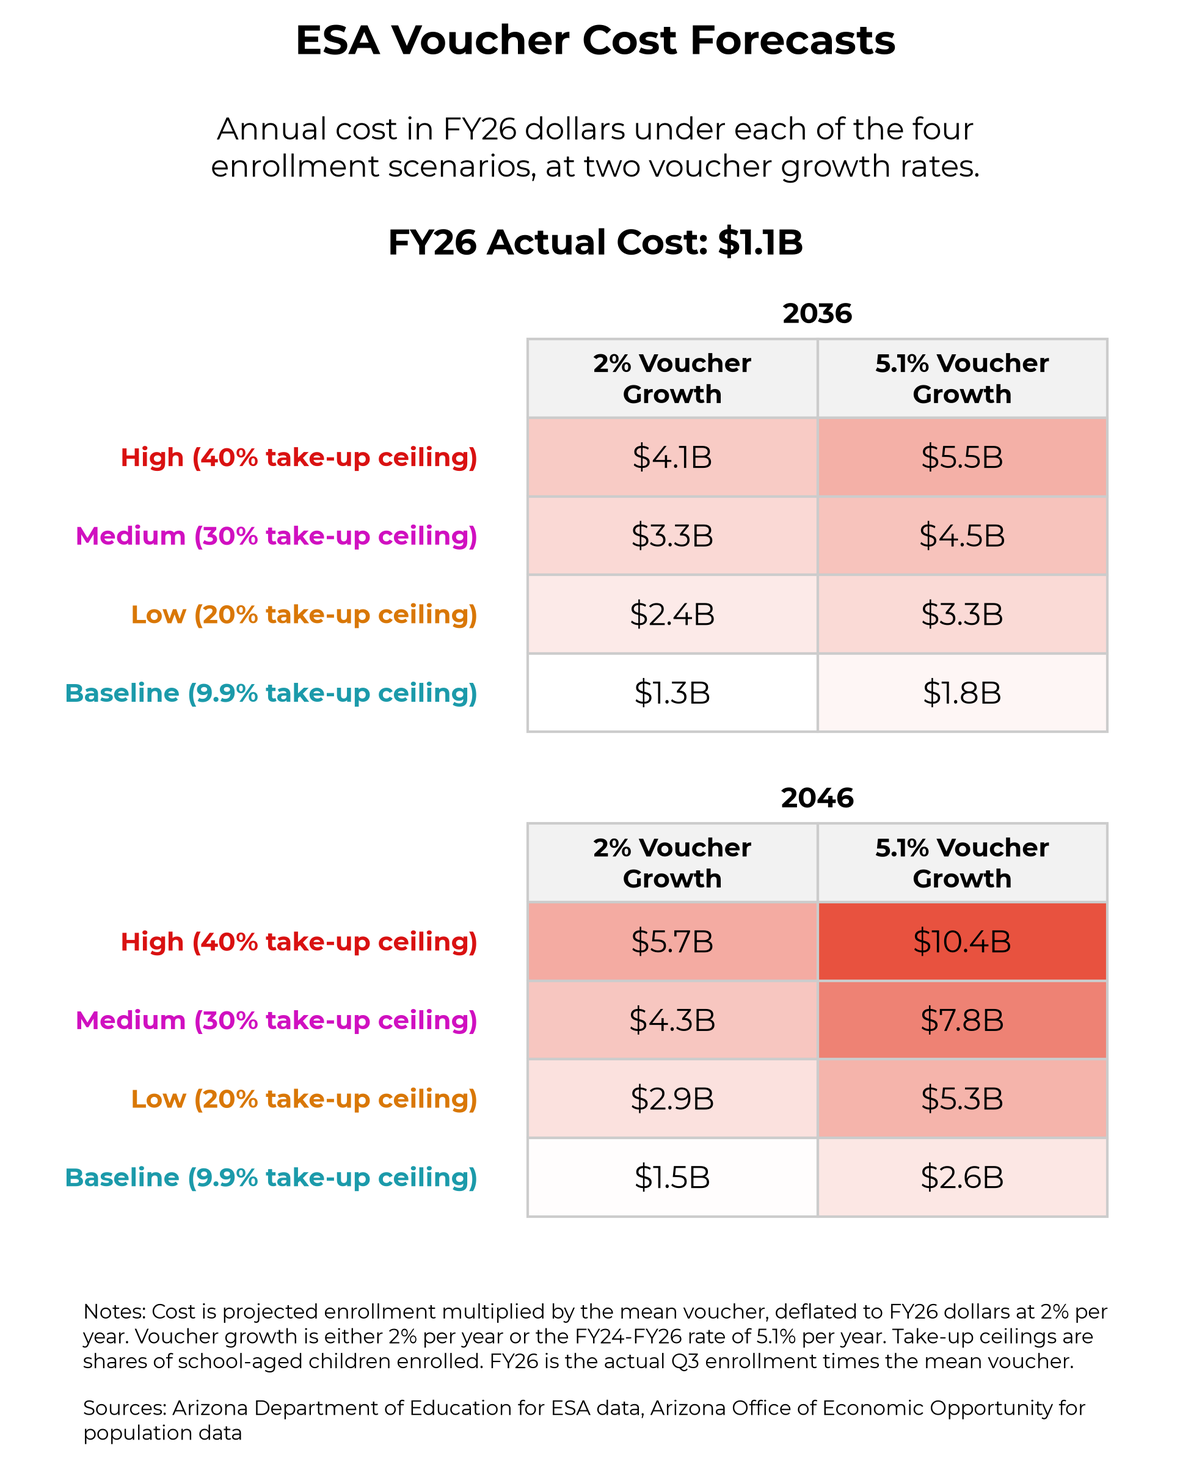
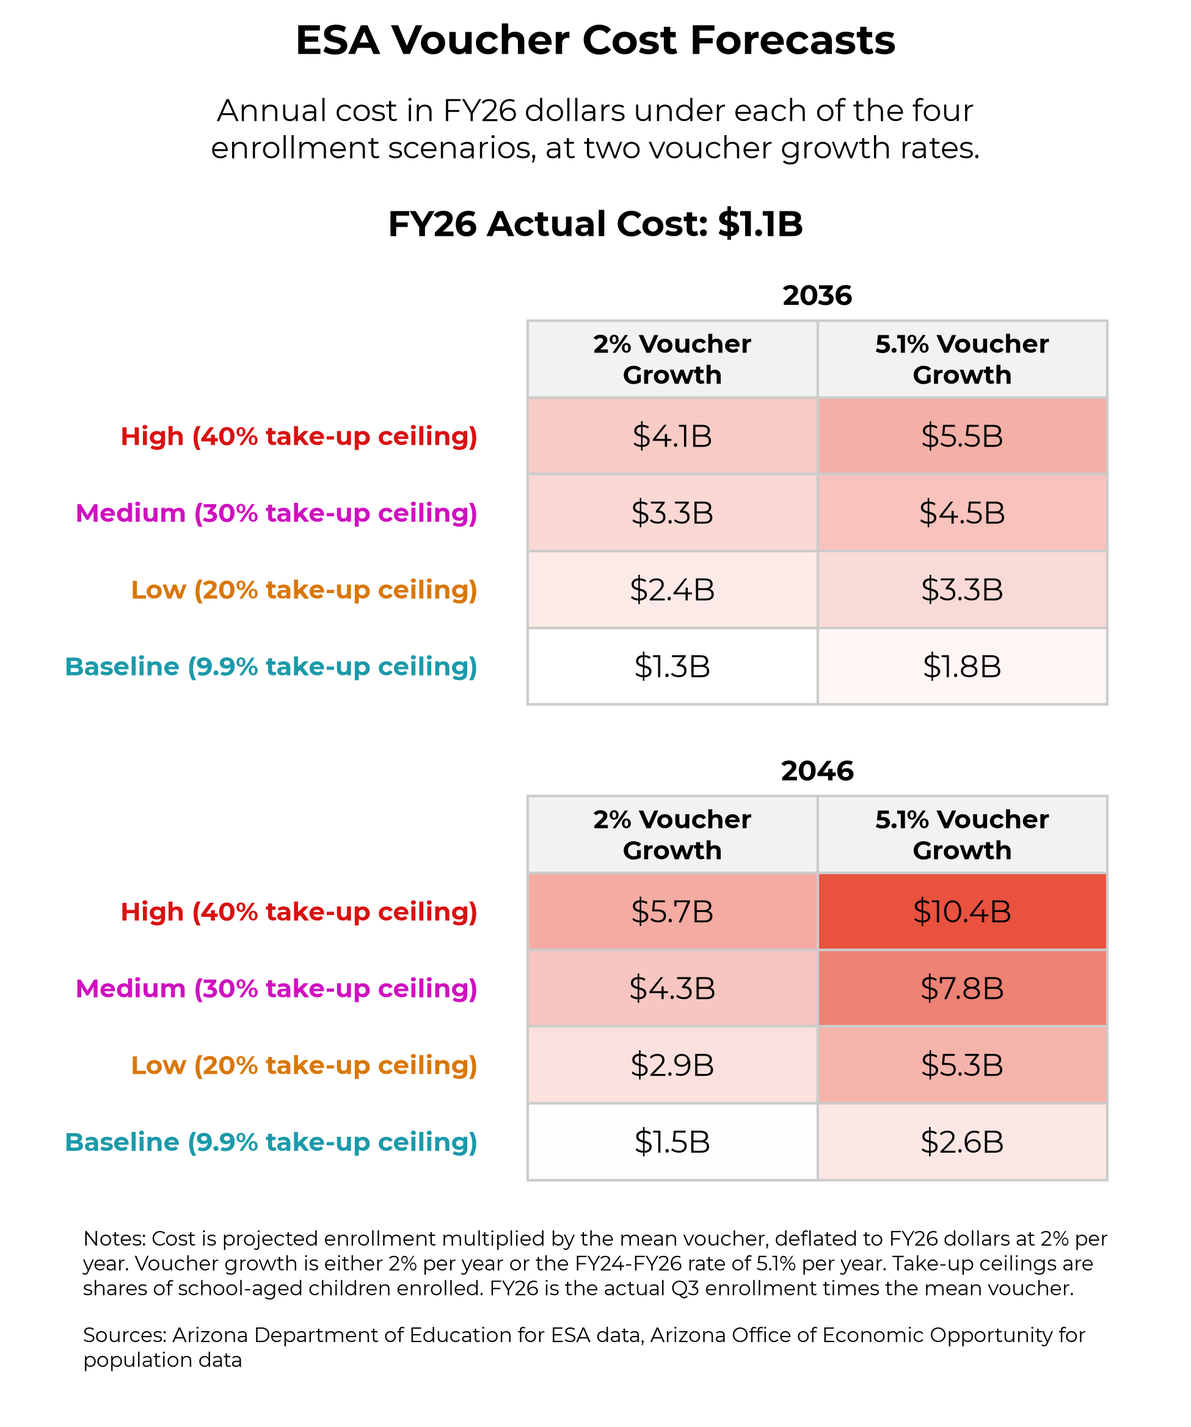
Make full pipeline replicable from raw data
- Add extract_population_real.py (2023-2025 OEO workbooks) with test
- Add run_all.py to rebuild every generated file in order
- Use uv sync --locked in README and CLAUDE.md
- Remove plot_forecast_slide --panels; standalone scripts own the report panels
- Report figures: fixed bottom margin; tighter table-to-notes gap on cost table
- Regenerate az_pop_real_clean.csv and both report panel PNGs (values unchanged)

diff --git a/src/voucher_growth_model/plots_report/plot_forecast_slide.py b/src/voucher_growth_model/plots_report/plot_forecast_slide.py
@@ -1,7 +1,7 @@
 """Enrollment and cost forecast charts side by side on one 16:9 canvas under a single title.
 
 Usage (from the repo root):
-    uv run python -m voucher_growth_model.plots_report.plot_forecast_slide <report_data> <forecast_csv> <out_png> [--table] [--panels]
+    uv run python -m voucher_growth_model.plots_report.plot_forecast_slide <report_data> <forecast_csv> <out_png> [--table]
 """
 
 import sys
@@ -37,18 +37,12 @@ SOURCE = ("Sources: Arizona Department of Education for ESA data, "
 # The cost subtitle has two lines to the enrollment subtitle's three; drop it half a line so their centres match
 SUBTITLE_LINE_HEIGHT = 0.167  # inches at 10 pt
 COST_SUBTITLE_TOP = PANEL["subtitle_top"] + (3 - 2) / 2 * SUBTITLE_LINE_HEIGHT
-PANEL_FILES = ("forecast_enrollment_report.png", "forecast_cost_table.png")  # left, right
-# Standalone report panels only; the slide keeps PANEL_TITLES and its wraps
-REPORT_ENROLLMENT_TITLE, REPORT_COST_TITLE = "ESA Voucher Enrollment Forecasts", "ESA Voucher Cost Forecasts"
-# None keeps SUBTITLE's hand-set breaks (line 2 starts at "after"); three lines that fit the figure width
-REPORT_SUBTITLE_WRAP, REPORT_SUBTITLE_FONTSIZE = None, 11
 COST_TITLE =";\nCost Could Reach \\${lo:,.1f}B to \\${hi:,.1f}B"
 
 
-def plot_forecast_slide(voucher_csv: Path, forecast_csv: Path, out_path: Path, table: bool = False,
-                        panels: bool = False) -> None:
-    """table=True replaces the cost bar chart with a table of FY46 costs. panels=True also saves each panel on its own
-    next to out_path (PANEL_FILES)."""
+def plot_forecast_slide(voucher_csv: Path, forecast_csv: Path, out_path: Path, table: bool = False) -> None:
+    """table=True replaces the cost bar chart with a table of FY46 costs. The standalone report panels come from
+    plot_forecast_enrollment.py and plot_forecast_cost_table.py."""
     cost_panel = plot_forecast_cost_table if table else plot_forecast_cost
     with tempfile.TemporaryDirectory() as tmp:
         left, right = Path(tmp) / "enrollment.png", Path(tmp) / "cost.png"
@@ -61,15 +55,6 @@ def plot_forecast_slide(voucher_csv: Path, forecast_csv: Path, out_path: Path, t
         panel = panel if table else {**PANEL, "subtitle_top": COST_SUBTITLE_TOP}
         cost_panel(forecast_csv, right, axes_y=axes_y, **panel, **{**COST, **right_extra})  # panel level with the line graph
         images = [Image.open(p).convert("RGB") for p in (left, right)]
-    if panels:  # standalone panels for the written report; the cost panel is redrawn centred and with sources
-        plot_forecast_enrollment(voucher_csv, forecast_csv, out_path.parent / PANEL_FILES[0],
-                                 **{**panel, "source_below_notes": True, "center_subtitle": False,
-                                    "subtitle_fontsize": REPORT_SUBTITLE_FONTSIZE},
-                                 **{**ENROLLMENT, **left_extra, "panel_title": REPORT_ENROLLMENT_TITLE,
-                                    "subtitle_wrap": REPORT_SUBTITLE_WRAP})
-        cost_panel(forecast_csv, out_path.parent / PANEL_FILES[1], axes_y=axes_y,
-                   **{**panel, "center_subtitle": False, "show_source": True},
-                   **{**COST, **right_extra, "panel_title": REPORT_COST_TITLE})
     gap = round(TITLE_GAP * SAVE_DPI)
     canvas = Image.new("RGB", (sum(im.width for im in images), max(im.height for im in images) + gap), "white")
     x = 0
@@ -94,5 +79,4 @@ def plot_forecast_slide(voucher_csv: Path, forecast_csv: Path, out_path: Path, t
 
 
 if __name__ == "__main__":
-    plot_forecast_slide(Path(sys.argv[1]), Path(sys.argv[2]), Path(sys.argv[3]), table="--table" in sys.argv[4:],
-                        panels="--panels" in sys.argv[4:])
+    plot_forecast_slide(Path(sys.argv[1]), Path(sys.argv[2]), Path(sys.argv[3]), table="--table" in sys.argv[4:])

diff --git a/src/voucher_growth_model/plots_report/plot_forecast_cost_table.py b/src/voucher_growth_model/plots_report/plot_forecast_cost_table.py
@@ -14,7 +14,7 @@ import pandas as pd
 
 from voucher_growth_model.plots_report.plot_forecast_enrollment import (
     FIG_HEIGHT, NOTES_CLEARANCE, PANEL_TITLE_FONTSIZE, PANEL_TITLE_TOP, SAVE_DPI, SCENARIO_COLORS_5_19, SOURCE,
-    SOURCE_GAP, SUBTITLE_LINE_HEIGHT,
+    SOURCE_GAP, SUBTITLE_LINE_HEIGHT, BOTTOM_MARGIN, bottom_bbox,
 )
 
 YEARS = ["FY36", "FY46"]
@@ -24,6 +24,7 @@ TABLE_X, TABLE_W = 0.32, 0.62
 TABLE_Y = [(0.54, 0.91), (0.07, 0.44)]
 ACTUAL_GAP = 0.2  # inches between the subtitle's last line and the FY26 line
 ACTUAL_TEXT_HEIGHT = 0.25  # inches the 14 pt FY26 line occupies
+TABLE_NOTES_GAP = 0.25  # inches from the lower table to the notes in the report figure (no tick labels to clear)
 TABLES_GAP = 0.1  # inches between the FY26 line and the first year label
 YEAR_LABEL_HEIGHT, YEAR_GAP = 0.3, 0.2  # inches: a year label above its table; between one table and the next label
 ROWS = [("k40", "High (40% take-up ceiling)"), ("k30", "Medium (30% take-up ceiling)"),
@@ -38,7 +39,8 @@ def plot_forecast_cost_table(forecast_csv: Path, out_path: Path, figsize: tuple[
                              subtitle_wrap: int | None = 68, notes_wrap: int = 104,
                              axes_y: tuple[float, float] | None = None, subtitle_top: float = 0.57,
                              center_subtitle: bool = True, panel_title: str | None = None,
-                             subtitle_fontsize: float = 10, show_source: bool = False, **_) -> None:
+                             subtitle_fontsize: float = 10, show_source: bool = False,
+                             bottom_margin: float | None = None, **_) -> None:
     """Keyword arguments follow plot_forecast_cost so the slide can swap the two panels; extras are ignored.
     center_subtitle=False centres the title, subtitle and FY26 line on the figure instead of the axes. show_source adds
     the sources line below the notes."""
@@ -111,7 +113,7 @@ def plot_forecast_cost_table(forecast_csv: Path, out_path: Path, figsize: tuple[
         pos = ax.get_position()
         ax.set_position((pos.x0, axes_y[0], pos.width, axes_y[1] - axes_y[0]))
     pos = ax.get_position()
-    notes_text.set_y(pos.y0 - NOTES_CLEARANCE / height)
+    notes_text.set_y(pos.y0 - (NOTES_CLEARANCE if bottom_margin is None else TABLE_NOTES_GAP) / height)
     if center_subtitle:
         subtitle_text.set_x((pos.x0 + pos.x1) / 2)
         actual_text.set_x((pos.x0 + pos.x1) / 2)
@@ -123,11 +125,12 @@ def plot_forecast_cost_table(forecast_csv: Path, out_path: Path, figsize: tuple[
         fig.text(notes_text.get_position()[0], notes_bottom - SOURCE_GAP / height, textwrap.fill(SOURCE, notes_wrap),
                  ha="left", va="top", fontsize=8)  # wrapped and aligned like the notes
     out_path.parent.mkdir(parents=True, exist_ok=True)
-    fig.savefig(out_path, dpi=SAVE_DPI)
+    fig.savefig(out_path, dpi=SAVE_DPI, bbox_inches=bottom_bbox(fig, bottom_margin))
 
 
 if __name__ == "__main__":
     # Report figure: own title and sources line, taller than the slide panel so the notes fit
     plot_forecast_cost_table(Path(sys.argv[1]), Path(sys.argv[2]), figsize=(6.5, 8.05),
                              panel_title="ESA Voucher Cost Forecasts", subtitle_top=0.5, subtitle_fontsize=12,
-                             subtitle_wrap=50, center_subtitle=False, axes_y=(0.2, 0.8), show_source=True)
+                             subtitle_wrap=50, center_subtitle=False, axes_y=(0.2, 0.8), show_source=True,
+                             bottom_margin=BOTTOM_MARGIN)

diff --git a/src/voucher_growth_model/plots_report/plot_forecast_enrollment.py b/src/voucher_growth_model/plots_report/plot_forecast_enrollment.py
@@ -10,6 +10,7 @@ from pathlib import Path
 
 import matplotlib.pyplot as plt
 from matplotlib import font_manager
+from matplotlib.transforms import Bbox
 from matplotlib.ticker import MultipleLocator
 import pandas as pd
 
@@ -42,6 +43,7 @@ NOTES_CLEARANCE = 0.45  # inches from the plot area's bottom edge to the top of 
 FIG_HEIGHT = 6.85  # inches
 SAVE_DPI = 300
 SOURCE_GAP = 0.12  # inches between the notes and a sources line placed below them
+BOTTOM_MARGIN = 0.3  # inches below the lowest text in the report figures
 PANEL_TITLE_TOP, PANEL_TITLE_FONTSIZE = 0.08, 16  # inches from the top edge; points
 SUBTITLE_LINE_HEIGHT = 0.167  # inches per subtitle line at 10 pt
 LINE_LABEL_Y = 0.42  # axes fraction at which the vertical line labels are centred
@@ -57,7 +59,8 @@ def plot_forecast_enrollment(voucher_csv: Path, forecast_csv: Path, out_path: Pa
                              show_title: bool = True, subtitle_top: float = 0.72,
                              center_subtitle: bool = False, show_source: bool = True,
                              reserve_note_lines: int = 0, panel_title: str | None = None,
-                             subtitle_fontsize: float = 10, source_below_notes: bool = False) -> tuple[float, float]:
+                             subtitle_fontsize: float = 10, source_below_notes: bool = False,
+                             bottom_margin: float | None = None) -> tuple[float, float]:
     """subtitle_wrap re-wraps the subtitle to that many characters per line; None keeps its hand-set line breaks.
 
     show_title=False omits the title; the plot area then starts just below the subtitle, which sits subtitle_top inches
@@ -166,11 +169,21 @@ def plot_forecast_enrollment(voucher_csv: Path, forecast_csv: Path, out_path: Pa
         if panel_title_text:
             panel_title_text.set_x((pos.x0 + pos.x1) / 2)
     out_path.parent.mkdir(parents=True, exist_ok=True)
-    fig.savefig(out_path, dpi=SAVE_DPI)
+    fig.savefig(out_path, dpi=SAVE_DPI, bbox_inches=bottom_bbox(fig, bottom_margin))
     return pos.y0, pos.y1
+
+
+def bottom_bbox(fig, margin: float | None):
+    """Full-width save box whose bottom edge sits `margin` inches below the lowest text; None keeps the figure size."""
+    if margin is None:
+        return None
+    fig.canvas.draw()
+    lowest = min(t.get_window_extent().y0 for t in fig.texts) / fig.dpi
+    w, h = fig.get_size_inches()
+    return Bbox([[0, lowest - margin], [w, h]])
 
 
 if __name__ == "__main__":
     # Report figure: notes first, sources line below them
     plot_forecast_enrollment(Path(sys.argv[1]), Path(sys.argv[2]), Path(sys.argv[3]), show_source=False,
-                             source_below_notes=True)
+                             source_below_notes=True, bottom_margin=BOTTOM_MARGIN)

diff --git a/src/voucher_growth_model/run_all.py b/src/voucher_growth_model/run_all.py
@@ -1,0 +1,38 @@
+"""Rebuild every generated file from data/raw/, in pipeline order.
+
+Usage (from the repo root):
+    uv run python -m voucher_growth_model.run_all
+"""
+import subprocess
+import sys
+from pathlib import Path
+
+POP = Path("data/raw/population")
+EXT = "data/processed/extracted"
+CLEAN = "data/processed/clean"
+REP = "outputs/report"
+
+STEPS = [
+    ["data_cleaning.extract_esa", "data/raw/voucher_reports", f"{EXT}/voucher_metrics_extracted.csv"],
+    ["data_cleaning.clean_esa", f"{EXT}/voucher_metrics_extracted.csv", f"{CLEAN}/voucher_metrics_clean.csv"],
+    ["data_cleaning.extract_population", str(POP / "az_population_growth.xlsx"), f"{EXT}/az_pop_proj_extracted.csv"],
+    ["data_cleaning.clean_population_proj", f"{EXT}/az_pop_proj_extracted.csv", f"{CLEAN}/az_pop_proj_clean.csv"],
+    ["data_cleaning.extract_population_real", f"{EXT}/az_pop_real_extracted.csv",
+     *sorted(str(p) for p in POP.glob("20* - 5 year*.xlsx"))],
+    ["data_cleaning.clean_population_real", f"{EXT}/az_pop_real_extracted.csv", f"{CLEAN}/az_pop_real_clean.csv"],
+    ["data_cleaning.merge_population", f"{CLEAN}/az_pop_real_clean.csv", f"{CLEAN}/az_pop_proj_clean.csv",
+     f"{CLEAN}/az_pop_all_clean.csv"],
+    ["data_cleaning.make_report_data"],
+    ["forecast", f"{REP}/report_data.csv", f"{REP}/forecast.csv"],
+    ["plots_report.plot_forecast_slide", f"{REP}/report_data.csv", f"{REP}/forecast.csv",
+     f"{REP}/forecast_slide_report.png", "--table"],
+    ["plots_report.plot_enrollment_actual", f"{REP}/report_data.csv", f"{REP}/enrollment_actual.png"],
+    ["plots_report.plot_forecast_enrollment", f"{REP}/report_data.csv", f"{REP}/forecast.csv",
+     f"{REP}/forecast_enrollment_report.png"],
+    ["plots_report.plot_forecast_cost_table", f"{REP}/forecast.csv", f"{REP}/forecast_cost_table.png"],
+]
+
+if __name__ == "__main__":
+    for module, *args in STEPS:
+        print(f"> {module}", flush=True)
+        subprocess.run([sys.executable, "-m", f"voucher_growth_model.{module}", *args], check=True)

diff --git a/src/voucher_growth_model/data_cleaning/extract_population_real.py b/src/voucher_growth_model/data_cleaning/extract_population_real.py
@@ -1,0 +1,42 @@
+"""Extract Arizona population estimates from the OEO five-year-group workbooks to CSV.
+
+Each workbook holds one year (read from the title row, e.g. "..., ARIZONA, 2024").
+Values come from the first sheet, first "Arizona" row (state total, both sexes). Output is long format:
+age groups for every year, then total_pop for every year. No derived columns.
+
+Usage (from the repo root):
+    uv run python -m voucher_growth_model.data_cleaning.extract_population_real <out_csv> <xlsx> [<xlsx> ...]
+"""
+import re
+import sys
+
+import openpyxl
+import pandas as pd
+
+AGE_GROUPS = ["5-9", "10-14", "15-19"]
+
+
+def extract_one(xlsx_path) -> tuple[int, dict[str, int]]:
+    """Year and {age group or 'total_pop': population} from one workbook."""
+    ws = openpyxl.load_workbook(xlsx_path, data_only=True).worksheets[0]
+    rows = list(ws.iter_rows(values_only=True))
+    title = next(r[0] for r in rows if isinstance(r[0], str) and "ARIZONA" in r[0])
+    year = int(re.search(r"(\d{4})\s*$", title).group(1))
+    header = next(r for r in rows if "Total" in r and "5-9" in r)
+    # First "Arizona" row is the state total (2023 adds an "All groups" race column).
+    total = next(r for r in rows if r[0] == "Arizona")
+    values = dict(zip(header, total))
+    out = {g: values[g] for g in AGE_GROUPS}
+    out["total_pop"] = values["Total"]
+    return year, out
+
+
+def extract(xlsx_paths) -> pd.DataFrame:
+    by_year = dict(sorted(extract_one(p) for p in xlsx_paths))
+    records = [(y, g, v[g]) for y, v in by_year.items() for g in AGE_GROUPS]
+    records += [(y, "total_pop", v["total_pop"]) for y, v in by_year.items()]
+    return pd.DataFrame(records, columns=["year", "age_group", "population"])
+
+
+if __name__ == "__main__":
+    extract(sys.argv[2:]).to_csv(sys.argv[1], index=False)

diff --git a/tests/test_extract_population_real.py b/tests/test_extract_population_real.py
@@ -1,0 +1,12 @@
+from pathlib import Path
+
+from voucher_growth_model.data_cleaning.extract_population_real import extract
+
+ROOT = Path(__file__).resolve().parents[1]
+
+
+def test_matches_committed_extracted_csv():
+    paths = sorted((ROOT / "data" / "raw" / "population").glob("20* - 5 year*.xlsx"))
+    out = extract(paths)
+    committed = (ROOT / "data" / "processed" / "extracted" / "az_pop_real_extracted.csv").read_text()
+    assert out.to_csv(index=False, lineterminator="\n") == committed.replace("\r\n", "\n")

diff --git a/docs/decisions.md b/docs/decisions.md
@@ -242,3 +242,20 @@ Decided by the user (2026-11-01): run commands for `forecast_enrollment_report.p
 ## Report figure scripts reproduce the report PNGs (2026-11-01)
 
 Decided by the user (2026-11-01): the committed `forecast_enrollment_report.png` and `forecast_cost_table.png` could not be reproduced from their scripts. `plot_forecast_enrollment.py` now keeps the headline title (`Enrollment in Arizona's Private School Voucher Program Could Reach ...`) and its command line puts the notes before the sources line. `plot_forecast_cost_table.py` called from the command line now adds the `ESA Voucher Cost Forecasts` title and the sources line, centres the header on the figure, and uses a 6.5 x 8.05 in figure so the notes fit. The slide (`plot_forecast_slide.py`) still uses the function defaults and is unchanged. Both PNGs regenerated; values unchanged.
+
+## Full pipeline rebuild from raw data (2026-11-01)
+
+Requested by the user (2026-11-01): make the whole pipeline replicable from `data/raw/`.
+- Added `data_cleaning/extract_population_real.py`. It builds `az_pop_real_extracted.csv` from the three OEO "5 year groups" workbooks (2023-2025), using the first "Arizona" row in each. Before this, no script produced that file. The output matches the committed file byte for byte, and a new test (`tests/test_extract_population_real.py`) checks this.
+- Added `run_all.py`, which runs every step from extraction to the report figures in order. README and CLAUDE.md now say to use `uv sync --locked`.
+- Regenerated `az_pop_real_clean.csv`. Values are unchanged; two ratios lost a trailing zero (`0.191190` became `0.19119`, `0.187670` became `0.18767`) because pandas writes floats that way.
+- Regenerated `forecast_enrollment_report.png` and `forecast_cost_table.png`. The committed PNGs did not match their scripts as revised in the entry above. Values are unchanged.
+- After these changes, `run_all` reproduces every tracked file under `data/processed/` and `outputs/report/`, and a second run produces byte-identical PNGs.
+
+## Report figure bottom margins (2026-11-01)
+
+Requested by the user (2026-11-01): `forecast_enrollment_report.png` had too little space at the bottom, and `forecast_cost_table.png` had too much. Both report figures now save with 0.3 in below the lowest text (`BOTTOM_MARGIN`), so the image height follows the content. The cost table also places its notes 0.25 in below the lower table instead of 0.45 in (`TABLE_NOTES_GAP`). New sizes at 300 dpi: enrollment 2700x2138 (was 2700x2055), cost table 1950x2336 (was 1950x2415). The slide uses the function defaults and is unchanged. Values are unchanged.
+
+## Report panels come only from the standalone scripts (2026-11-01)
+
+Decided by the user (2026-11-01): `plot_forecast_slide.py --panels` and the standalone scripts both wrote `forecast_enrollment_report.png` and `forecast_cost_table.png`, with different titles and spacing, so whichever ran last set the report figures. The `--panels` option was removed. The standalone scripts (`plot_forecast_enrollment.py`, `plot_forecast_cost_table.py`) now produce these two files, including the headline enrollment title and the new bottom margins. The slide itself is unchanged.

diff --git a/CLAUDE.md b/CLAUDE.md
@@ -11,7 +11,7 @@ Forecast Arizona ESA (voucher) enrollment and program cost from quarterly state 
 - `outputs/`: generated files (graphs, analysis), no scripts; `report/` tracked in git, `draft/` git-ignored
   - `report/`: `report_data.csv`, `forecast.csv`, report figures
 - `src/voucher_growth_model/`: all code, including scripts that create graphs
-  - `data_cleaning/`: `extract_esa.py` (PDF to CSV), `clean_esa.py` (raw to clean CSV), `extract_population.py`, `clean_population_proj.py`, `clean_population_real.py`, `merge_population.py`, `make_report_data.py`
+  - `data_cleaning/`: `extract_esa.py` (PDF to CSV), `clean_esa.py` (raw to clean CSV), `extract_population.py`, `extract_population_real.py`, `clean_population_proj.py`, `clean_population_real.py`, `merge_population.py`, `make_report_data.py`
   - `forecast.py`: enrollment and cost forecast
   - `plots_report/plot_*.py`: scripts for the `outputs/report/` figures; self-contained
   - `plots_report/fonts/`: bundled Montserrat (OFL), loaded by the forecast plots
@@ -21,11 +21,12 @@ Forecast Arizona ESA (voucher) enrollment and program cost from quarterly state 
 - Root docs: `README.md`
 
 ## Commands
-- `uv sync`
+- `uv sync --locked`
+- `uv run --locked python -m voucher_growth_model.run_all` (rebuilds everything from `data/raw/`; steps below)
 - `uv run python -m voucher_growth_model.data_cleaning.extract_esa data/raw/voucher_reports data/processed/extracted/voucher_metrics_extracted.csv`
 - `uv run python -m voucher_growth_model.data_cleaning.make_report_data` (writes `outputs/report/report_data.csv`)
 - `uv run python -m voucher_growth_model.forecast outputs/report/report_data.csv outputs/report/forecast.csv`
-- `uv run python -m voucher_growth_model.plots_report.plot_forecast_slide outputs/report/report_data.csv outputs/report/forecast.csv outputs/report/forecast_slide_report.png --table --panels`
+- `uv run python -m voucher_growth_model.plots_report.plot_forecast_slide outputs/report/report_data.csv outputs/report/forecast.csv outputs/report/forecast_slide_report.png --table`
 - `uv run python -m voucher_growth_model.plots_report.plot_enrollment_actual outputs/report/report_data.csv outputs/report/enrollment_actual.png`
 - `uv run python -m voucher_growth_model.plots_report.plot_forecast_enrollment outputs/report/report_data.csv outputs/report/forecast.csv outputs/report/forecast_enrollment_report.png`
 - `uv run python -m voucher_growth_model.plots_report.plot_forecast_cost_table outputs/report/forecast.csv outputs/report/forecast_cost_table.png`

diff --git a/README.md b/README.md
@@ -13,8 +13,16 @@ Population: Arizona Office of Economic Opportunity (OEO), [population projection
 
 ## Usage
 
+Rebuild every generated file from `data/raw/` (uses the exact versions in `uv.lock`):
+
 ```
-uv sync
+uv sync --locked
+uv run --locked python -m voucher_growth_model.run_all
+```
+
+Individual steps:
+
+```
 uv run python -m voucher_growth_model.data_cleaning.extract_esa data/raw/voucher_reports data/processed/extracted/voucher_metrics_extracted.csv
 ```
 
@@ -25,6 +33,7 @@ Other pipeline steps (`src/voucher_growth_model/data_cleaning/`):
 ```
 uv run python -m voucher_growth_model.data_cleaning.clean_esa <raw_csv> <clean_csv>
 uv run python -m voucher_growth_model.data_cleaning.extract_population <xlsx> <out_csv>
+uv run python -m voucher_growth_model.data_cleaning.extract_population_real <out_csv> <xlsx> [<xlsx> ...]
 uv run python -m voucher_growth_model.data_cleaning.clean_population_proj <raw_csv> <clean_csv>
 uv run python -m voucher_growth_model.data_cleaning.clean_population_real <raw_csv> <clean_csv>
 uv run python -m voucher_growth_model.data_cleaning.merge_population <real_clean> <proj_clean> <out_csv>
@@ -40,7 +49,7 @@ uv run python -m voucher_growth_model.forecast outputs/report/report_data.csv ou
 Report figures (run from the repo root; write to `outputs/report/`):
 
 ```
-uv run python -m voucher_growth_model.plots_report.plot_forecast_slide outputs/report/report_data.csv outputs/report/forecast.csv outputs/report/forecast_slide_report.png --table --panels
+uv run python -m voucher_growth_model.plots_report.plot_forecast_slide outputs/report/report_data.csv outputs/report/forecast.csv outputs/report/forecast_slide_report.png --table
 uv run python -m voucher_growth_model.plots_report.plot_enrollment_actual outputs/report/report_data.csv outputs/report/enrollment_actual.png
 uv run python -m voucher_growth_model.plots_report.plot_forecast_enrollment outputs/report/report_data.csv outputs/report/forecast.csv outputs/report/forecast_enrollment_report.png
 uv run python -m voucher_growth_model.plots_report.plot_forecast_cost_table outputs/report/forecast.csv outputs/report/forecast_cost_table.png
